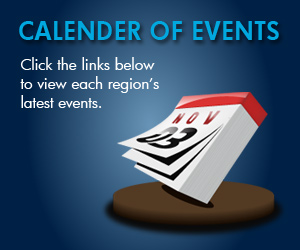
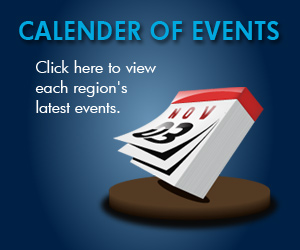
homepage changes

Changed region(s): [[0.33, 0.336, 0.96, 0.952], [0.06, 0.224, 0.54, 0.476]]

diff --git a/wp-content/themes/ohu/index.php b/wp-content/themes/ohu/index.php
@@ -115,11 +115,18 @@ if ( in_category('stories') ) {
 	<img src="<?php bloginfo('template_directory'); ?>/images/goblue/our-events.gif" alt="Our events" style="margin-top:-0px;">
     <br />
     <br />
-    <br />
-    <br />
+
     <a href="http://onehopeunited.org/calendar/">
         <img src="<?php bloginfo('template_directory'); ?>/images/goblue/calendar-of-events-homepage.jpg" alt="Calendar of events" style="width:280px;margin-bottom:10px;margin-top:10px;">
     </a>
+    <br />
+    <div style="text-align:center;">
+        <span class="redtext">Click the button below to create your own event!</span><br />
+        <br />
+        <a href="http://onehopeunited.org/wp-content/uploads/2014/03/OHU_GoBlue_CampaignKit_2014.pdf">
+            <img src="<?php bloginfo('template_directory'); ?>/images/goblue/download-kit-01.jpg" alt="Campaign Kit">
+        </a>
+    </div>
 
 </div><!-- bottom container -->
 
